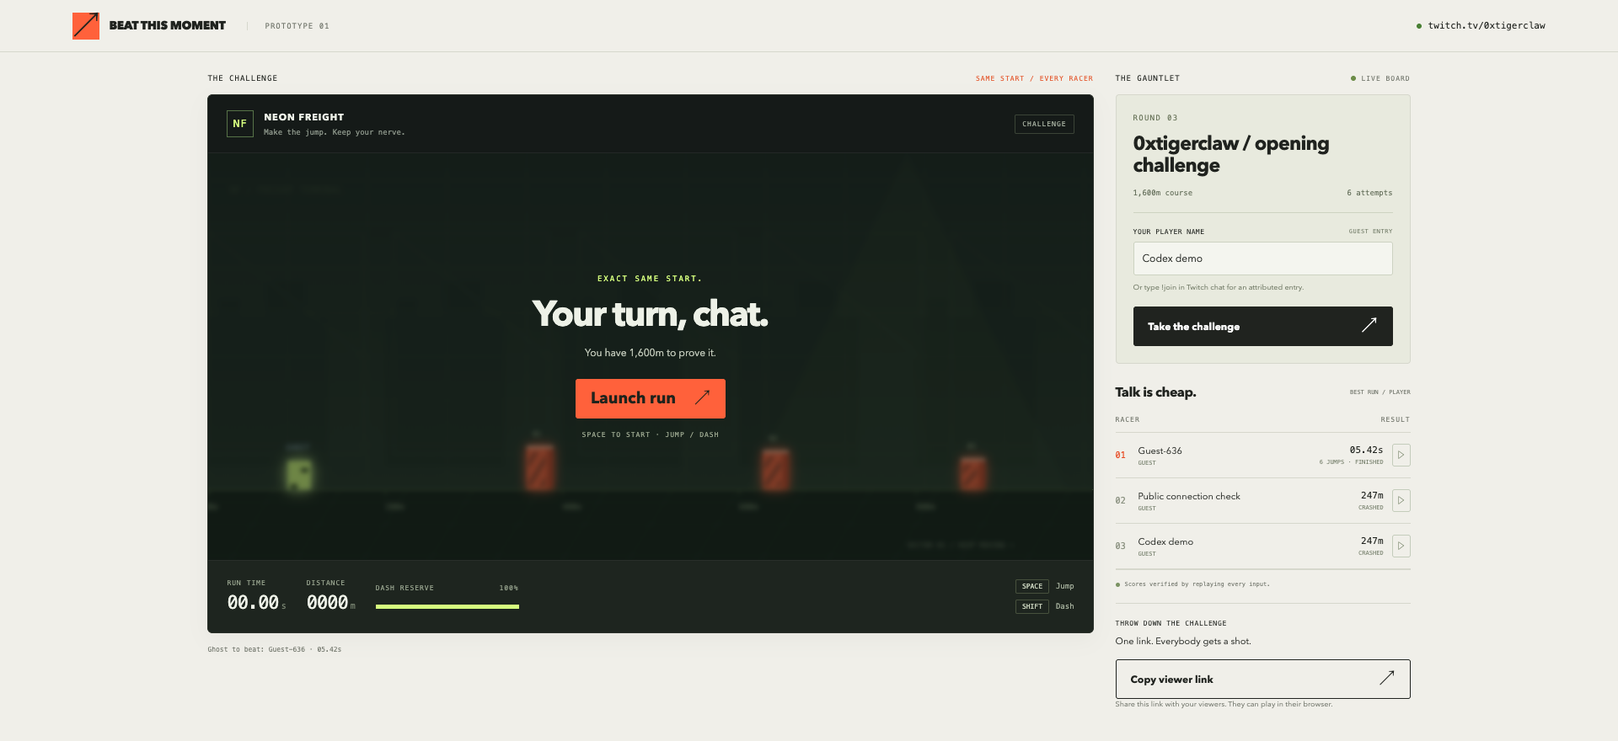
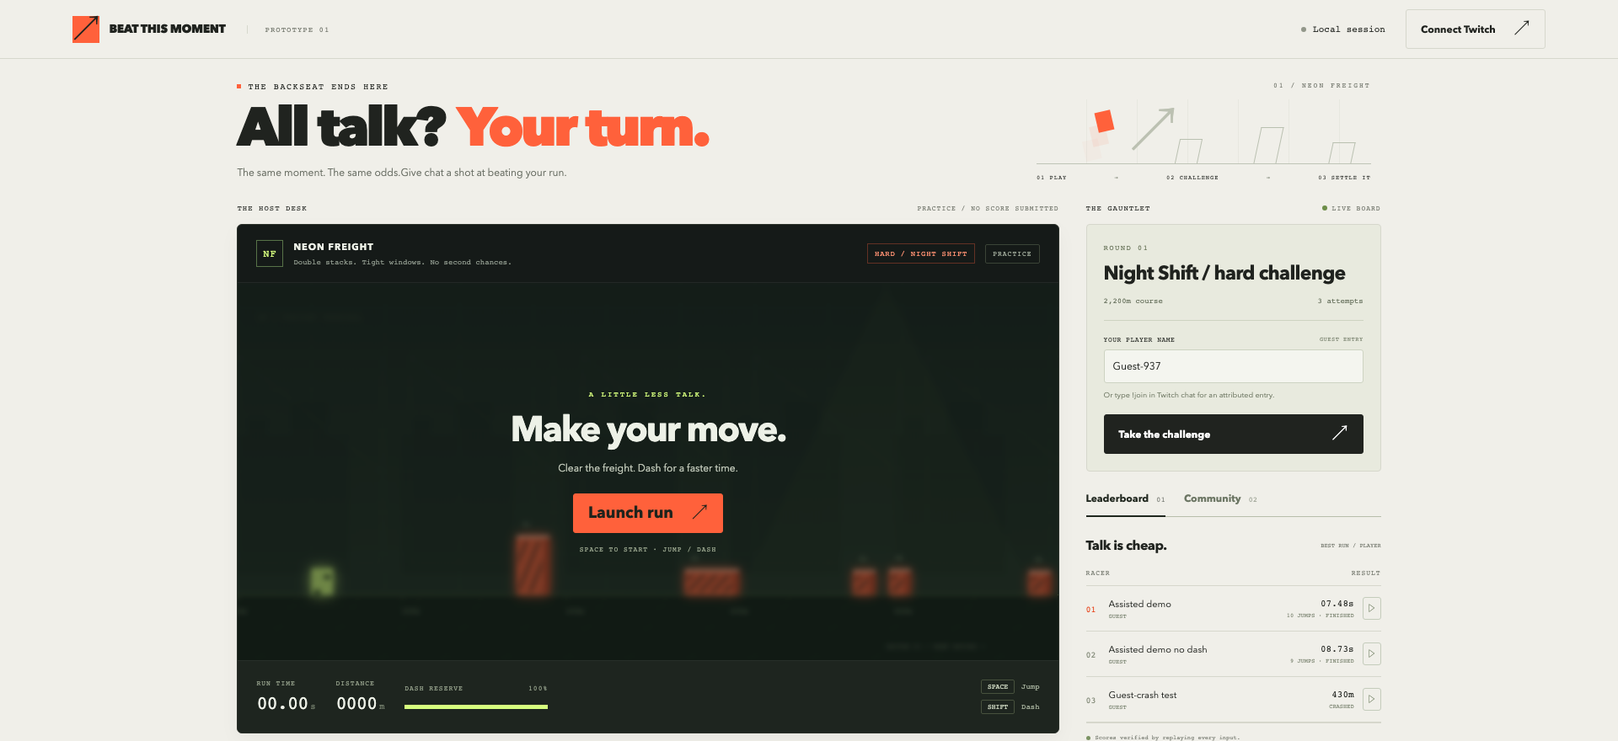
Add harder Night Shift course, Community example tags, and fresh screenshots
The course generator is versioned: version 2 is a 2,200m round with tall
walls, wide barriers, and double stacks, while version 1 challenges and
their ghost replays keep the original layout. The server starts a hard
round on upgrade without touching stored challenges. The board gains a
Community tab with clearly labeled example creator tags. Screenshots were
recaptured from the running game with a labeled assisted demo run.

diff --git a/public/style.css b/public/style.css
@@ -1,3 +1,5 @@
 :root{--bg:#f0efe9;--ink:#20231f;--muted:#777b71;--line:#d6d7cc;--orange:#ff613b;--dark:#151a18;--lime:#d6ff7e;--mono:'SFMono-Regular',Consolas,'Liberation Mono',monospace;--sans:'Avenir Next',Avenir,'Trebuchet MS',sans-serif}*{box-sizing:border-box}body{margin:0;background:var(--bg);color:var(--ink);font:14px var(--sans)}button,input,a{-webkit-tap-highlight-color:transparent}button,a,input{touch-action:manipulation}button{font:inherit;cursor:pointer}button:disabled{opacity:.4;cursor:not-allowed}a{color:inherit}button:focus-visible,a:focus-visible,input:focus-visible,canvas:focus-visible{outline:3px solid #de4f2c;outline-offset:4px}button:active:not(:disabled){transform:translateY(1px)}.topbar{height:82px;padding:0 4.5%;border-bottom:1px solid var(--line);display:flex;align-items:center;justify-content:space-between;gap:20px}.brand{text-decoration:none;font-size:14px;font-weight:800;letter-spacing:-.4px;display:flex;align-items:center;gap:11px}.brand-mark{width:32px;height:32px;display:grid;place-items:center;background:var(--orange);font-size:32px;font-weight:500;color:var(--ink);line-height:1}.beta{margin-left:15px;font:9px var(--mono);letter-spacing:1px;color:var(--muted);border-left:1px solid var(--line);padding-left:20px}.topbar nav{display:flex;align-items:center;gap:24px}.connection{font:11px var(--mono);display:flex;gap:8px;align-items:center}.connection i,.live-label i{width:6px;height:6px;border-radius:50%;background:#92978a}.connection.connected i{background:#498034}.button{display:inline-flex;align-items:center;justify-content:space-between;gap:22px;border:1px solid var(--ink);background:var(--ink);color:#fff;padding:13px 17px;font-size:12px;font-weight:700;min-height:44px;border-radius:3px;transition:background .15s,transform .15s}.button span{font-size:19px;line-height:1}.button:hover:not(:disabled){background:#3e453c}.button.primary{background:var(--orange);border-color:var(--orange);color:#1f231c}.button.primary:hover:not(:disabled){background:#ff805f;border-color:#ff805f}.button.subtle{background:transparent;color:var(--ink);border-color:var(--line)}.button.subtle:hover{background:#e7e7df}.button.wide{width:100%}.button.outline{background:transparent;color:var(--ink)}.button.outline:hover{background:#e2e4d9}main{max-width:1530px;margin:auto;padding:0 4.5%}.intro{display:flex;justify-content:space-between;align-items:center;padding:48px 0 43px}.eyebrow{font:10px var(--mono);letter-spacing:1.6px;display:flex;align-items:center;gap:8px}.tiny-square{width:5px;height:5px;background:var(--orange)}h1{font-size:clamp(52px,5.5vw,82px);line-height:.97;letter-spacing:-5px;margin:20px 0 20px;font-weight:800}h1>span{color:var(--orange)}.intro p{font-size:15px;line-height:1.6;color:#6c7167;margin:0}.intro-right{width:43%;padding:0 25px}.edition{font:10px var(--mono);letter-spacing:2px;color:var(--muted);text-align:right}.sketch-track{height:135px;position:relative;border-bottom:1px solid #bfc4b7;margin:20px 0 20px;background:repeating-linear-gradient(90deg,transparent 0,transparent 59px,#dee0d6 60px)}.sketch-track>span:not(.sketch-player){position:absolute;bottom:0;border:1px solid #b9c0b0;border-bottom:0;width:35px;height:44px;left:42%;transform:skew(-12deg)}.sketch-track>span:nth-child(3){left:66%;height:62px}.sketch-track>span:nth-child(4){left:88%;height:36px}.sketch-player{position:absolute;width:25px;height:30px;background:var(--orange);bottom:64px;left:18%;transform:rotate(-13deg);box-shadow:-10px 15px 0 #ff613b15,-22px 30px 0 #ff613b08}.sketch-track>b{position:absolute;font:80px var(--sans);color:#bcc1b2;top:-1px;left:28%;font-weight:300}.flow{display:flex;justify-content:space-between;font:9px var(--mono);letter-spacing:1px}.flow i{font-style:normal;color:#92998b}.workspace{display:grid;grid-template-columns:minmax(0,1fr) 322px;gap:26px}.section-label{display:flex;justify-content:space-between;align-items:center;margin-bottom:12px;font:9px var(--mono);letter-spacing:1px;min-height:14px}.section-label>span:last-child{color:var(--muted);font-size:8px}.live-label{display:flex;gap:6px;align-items:center}.live-label i{background:#6d8d49}.arena{background:var(--dark);color:#edf1e7;border-radius:6px;overflow:hidden;border:1px solid #2b312a;box-shadow:0 8px 25px #1620160a}.arena-top{display:flex;justify-content:space-between;align-items:center;padding:18px 22px;border-bottom:1px solid #ffffff10}.arena-top>div{display:flex;align-items:center;gap:12px;font-size:11px;font-weight:700;letter-spacing:1px}.arena-badge{font:12px var(--mono);color:var(--lime);border:1px solid #577348;width:32px;height:32px;display:grid;place-items:center}.arena-subtitle{display:block;font:9px var(--mono);color:#8b9589;margin-top:5px;letter-spacing:0}.mode-chip{font:8px var(--mono);letter-spacing:1px;color:#a3ad9d;border:1px solid #3b4437;padding:6px 8px;border-radius:2px}.canvas-wrap{position:relative;overflow:hidden}canvas{display:block;width:100%;aspect-ratio:1000/460;outline-offset:-4px!important}.game-screen{position:absolute;inset:0;display:flex;flex-direction:column;align-items:center;justify-content:center;background:#11181387;backdrop-filter:blur(3px);text-align:center}.game-screen>span:first-child{font:9px var(--mono);letter-spacing:2px;color:var(--lime)}.game-screen h2{font-size:clamp(23px,3.1vw,42px);letter-spacing:-1.8px;margin:14px 0 6px;line-height:1.15}.game-screen p{font-size:12px;line-height:1.6;color:#bdc5b6;margin:6px 0 20px}.game-screen .button{min-width:175px;justify-content:space-between}.screen-hint{font:8px var(--mono);letter-spacing:1px;color:#9aa68e;margin-top:15px}.game-screen[hidden],.countdown[hidden]{display:none}.countdown{position:absolute;inset:0;display:grid;place-items:center;font:800 96px var(--sans);color:var(--lime);text-shadow:0 0 60px #d6ff7e70;pointer-events:none}.game-hud{min-height:86px;display:flex;align-items:center;gap:25px;padding:16px 22px;background:#1e251f;border-top:1px solid #ffffff0c}.stat-label{display:block;font:8px var(--mono);letter-spacing:1px;color:#929e89}.game-hud strong{font:22px var(--mono);display:block;letter-spacing:-1px;margin-top:6px}.game-hud strong>span{font-size:10px;color:#7b8773;margin-left:3px}.energy-stat{flex:1;max-width:170px}.energy-stat .stat-label{display:flex;justify-content:space-between;gap:12px}.energy-track{height:5px;background:#35402e;margin-top:15px}.energy-track>div{height:100%;width:100%;background:var(--lime)}.controls{display:flex;flex-direction:column;gap:7px;margin-left:auto;font:9px var(--mono);color:#a4af9b}.controls>span{display:flex;align-items:center;gap:8px}kbd{font:8px var(--mono);border:1px solid #47513d;padding:3px 6px;min-width:40px;text-align:center;color:#cbd5bf;border-radius:2px}.host-tools{display:flex;justify-content:space-between;align-items:center;gap:16px;border:1px solid var(--line);border-radius:4px;margin-top:15px;padding:18px 16px}.moment-copy{display:flex;align-items:center;gap:13px}.moment-icon{font-size:27px;color:var(--orange)}.moment-copy strong{font-size:12px}.moment-copy p{font-size:10px;line-height:1.5;color:var(--muted);margin:5px 0 0}.host-tools .button{white-space:nowrap}.under-game{display:flex;justify-content:space-between;align-items:center;gap:15px;margin-top:15px}.text-button{background:transparent;border:0;color:inherit;padding:5px 0;font-size:10px;font-weight:700;text-align:left;text-decoration:underline;text-underline-offset:4px}.text-button:hover{color:#d64725}#ghost-label{font:8px var(--mono);color:var(--muted);text-align:right}.how-it-works{display:grid;grid-template-columns:repeat(3,1fr);margin-top:32px;border-top:1px solid var(--line);padding-top:20px;gap:15px}.how-it-works>div>span{font:10px var(--mono);color:var(--orange);display:block;margin-bottom:10px}.how-it-works strong{font-size:11px}.how-it-works p{font-size:10px;color:var(--muted);line-height:1.5}.challenge-card{border:1px solid var(--line);padding:22px 20px 20px;border-radius:4px;background:#e8eade}.challenge-number{font:9px var(--mono);letter-spacing:1.3px;color:#6d785e}.challenge-card h2{font-size:23px;line-height:1.15;letter-spacing:-.7px;margin:13px 0 13px}.challenge-meta{display:flex;justify-content:space-between;font:9px var(--mono);color:#69735f;padding-bottom:18px;border-bottom:1px solid #cdd3c1}.player-entry{margin-top:18px}.player-entry label{font:8px var(--mono);letter-spacing:.5px;display:flex;justify-content:space-between}.player-entry label>span{color:#7c8572;font-size:7px}input{font:12px var(--sans);width:100%;padding:11px 10px;background:#f4f5ef;border:1px solid #cdd3c2;border-radius:3px;margin-top:7px;color:var(--ink)}input::placeholder{color:#92988a}.player-entry small{display:block;font-size:9px;color:#737c68;line-height:1.5;margin:8px 0 16px}.leaderboard{margin-top:23px}.leaderboard-head{display:flex;align-items:center;justify-content:space-between;gap:10px}.leaderboard h3{font-size:16px;letter-spacing:-.5px;margin:0}.leaderboard-head>span{font:7px var(--mono);color:var(--muted)}.table-head{display:flex;justify-content:space-between;font:8px var(--mono);color:var(--muted);letter-spacing:1px;border-bottom:1px solid var(--line);padding:17px 0 10px}#scores,#overlay-scores{list-style:none;padding:0;margin:0}#scores li{display:flex;align-items:center;gap:10px;padding:13px 0;border-bottom:1px solid var(--line);font-size:11px}.rank{font:10px var(--mono);color:#8c9382;min-width:17px}.rank.first{color:#e84c25}.racer{flex:1;overflow:hidden;text-overflow:ellipsis;white-space:nowrap}.racer small{display:block;font:7px var(--mono);color:#7a8471;margin-top:3px}.result{text-align:right;font:11px var(--mono)}.result small{display:block;font:7px var(--mono);margin-top:4px;color:#7c8572}.replay-button{background:none;border:1px solid #c4ccbb;border-radius:3px;padding:5px;color:#667657;font-size:10px}.empty-board{min-height:178px;display:flex;flex-direction:column;align-items:center;justify-content:center;text-align:center}.empty-board[hidden]{display:none}.empty-track{font-size:32px;color:#b7bdad;margin-bottom:8px}.empty-board strong{font-size:11px}.empty-board p{font-size:10px;line-height:1.6;color:var(--muted);margin:7px 0}.board-foot{border-top:1px solid var(--line);padding-top:13px;font:7px var(--mono);color:var(--muted);display:flex;align-items:center;gap:6px}.verified-dot{width:5px;height:5px;border-radius:50%;background:#7b9363}.share-card{border-top:1px solid var(--line);margin-top:24px;padding-top:19px}.share-card .eyebrow{font-size:8px;letter-spacing:.7px}.share-card p{font-size:11px;margin:9px 0 14px}.share-card>.text-button{display:block;margin:10px 0 9px}.share-card small{font-size:9px;color:var(--muted);line-height:1.5;display:block}footer{display:flex;justify-content:space-between;gap:20px;border-top:1px solid var(--line);padding:25px 0;margin-top:40px;font:8px var(--mono);letter-spacing:.7px;color:var(--muted)}.touch-controls{display:none;gap:10px;margin-top:10px}.touch-controls .button{width:50%;justify-content:center;user-select:none;touch-action:none}.toast{position:fixed;bottom:25px;left:50%;transform:translateX(-50%);background:var(--ink);color:white;border:1px solid #657058;box-shadow:0 4px 20px #0003;padding:15px 22px;border-radius:5px;font-size:12px;max-width:min(90vw,600px);z-index:20}.toast[hidden]{display:none}dialog{border:1px solid #cbd0be;border-radius:8px;padding:28px;max-width:520px;width:calc(100% - 32px);background:var(--bg);color:var(--ink);box-shadow:0 30px 100px #0004}dialog::backdrop{background:#111a17b3;backdrop-filter:blur(5px)}.dialog-header{display:flex;justify-content:space-between;align-items:center}.icon-button{border:0;background:transparent;font-size:26px;padding:0 4px}.dialog-header .eyebrow{font-size:9px;color:#67705f}dialog h2{font-size:34px;letter-spacing:-1.5px;margin:20px 0 10px}dialog>p{font-size:12px;color:#747d6a;line-height:1.7}code{font:10px var(--mono);background:#e3e6da;padding:3px 5px;overflow-wrap:anywhere}.setup-status{padding:12px;background:#e4e8d9;margin:17px 0;font-size:11px;line-height:1.6}.setup-steps{padding-left:20px;margin:24px 0}.setup-steps li{padding-left:5px;margin:0 0 20px;font-size:12px}.setup-steps li>span{display:block;font-size:11px;line-height:1.7;color:#747d6a;margin-top:6px}.setup-steps li>code{display:block;margin-top:8px}#host-unlock label{font:9px var(--mono)}#host-unlock .button{margin-top:8px}.setup-footnote{font-size:10px!important;margin-bottom:0}body.viewer .intro{padding:35px 0}.viewer .intro h1{font-size:62px}.viewer .intro-right{display:none}.viewer #host-tools,.viewer #switch-mode,.viewer #setup-open,.viewer #copy-overlay{display:none}.viewer .intro p br{display:none}.viewer .intro p{max-width:500px}.viewer #round-label{color:#e45c33}.viewer .workspace{margin-top:0}body.overlay-mode{background:transparent}body.overlay-mode #app{display:none}.broadcast-overlay{width:420px;background:#182019f2;border:1px solid #526146;border-top:3px solid var(--orange);color:#eef5e4;font-family:var(--sans);border-radius:5px;overflow:hidden}.broadcast-overlay[hidden]{display:none}.overlay-top{display:flex;align-items:center;gap:12px;padding:16px}.overlay-top>div{flex:1}.overlay-top>div>span{display:block;font:8px var(--mono);letter-spacing:1px;color:#afbb9e}.overlay-top strong{display:block;font-size:17px;margin-top:4px}.overlay-top>span:last-child{font:9px var(--mono);color:var(--lime)}#overlay-scores li{display:flex;justify-content:space-between;border-top:1px solid #ffffff14;padding:12px 18px;font:13px var(--mono)}#overlay-scores .rank{margin-right:10px}.overlay-bottom{font:9px var(--mono);letter-spacing:1px;color:#b6c5a3;background:#263223;padding:12px 18px;text-align:center}#host-unlock[hidden]{display:none}@media(min-width:1500px){.workspace{grid-template-columns:minmax(0,1fr) 350px;gap:32px}}@media(max-width:1050px){.workspace{grid-template-columns:minmax(0,1fr) 285px;gap:18px}main{padding:0 3%}.topbar{padding:0 3%}.game-hud{gap:15px;padding:14px}.controls{display:none}.intro-right{width:45%;padding:0}.flow{font-size:8px}.host-tools{align-items:stretch;flex-direction:column}.host-tools .button{justify-content:center}.beta{display:none}.section-label{font-size:8px}.section-label>span:last-child{font-size:7px}}@media(max-width:760px){.topbar{height:68px}.brand{font-size:11px}.brand-mark{width:27px;height:27px;font-size:27px}.topbar nav{gap:12px}.connection{font-size:9px}.topbar .subtle{padding:9px;min-height:36px;font-size:10px}.topbar .subtle span{display:none}main{padding:0 5%}.intro{padding:32px 0}.intro-right{display:none}h1{font-size:65px;letter-spacing:-4px}.intro p{font-size:13px}.workspace{grid-template-columns:1fr;gap:27px}.game-hud{gap:25px}.energy-stat{margin-left:auto;max-width:140px}.arena-top{padding:14px}.canvas-wrap canvas{aspect-ratio:1000/570}.game-screen h2{font-size:30px}.game-screen p{font-size:11px;margin-bottom:14px}.game-screen .screen-hint{display:none}.game-screen .button{padding:10px;min-height:38px}.touch-controls{display:flex}.host-tools{flex-direction:row;align-items:center}.host-tools .button{font-size:10px;padding:11px;gap:8px}.moment-copy strong{font-size:10px}.moment-copy p{font-size:9px}.moment-icon{display:none}.under-game{align-items:start}#ghost-label{font-size:7px;max-width:150px}.how-it-works{margin-top:22px}.how-it-works strong{font-size:10px}.how-it-works p{font-size:9px}.board-column{display:grid;grid-template-columns:1fr 1fr;gap:18px}.board-column>.section-label{grid-column:1/-1;margin-bottom:0}.leaderboard{margin-top:0}.share-card{grid-column:1/-1;margin-top:0}.challenge-card{padding:17px}.challenge-card h2{font-size:21px}.challenge-meta{font-size:8px}.player-entry label{font-size:7px}.player-entry label>span{display:none}.button{font-size:11px}.share-card .button{max-width:320px}footer{font-size:6px;line-height:1.6;margin-top:28px}.viewer .intro h1{font-size:54px}.broadcast-overlay{max-width:100vw}}@media(max-width:420px){.connection{display:none}.board-column{grid-template-columns:1fr}.share-card,.board-column>.section-label{grid-column:1}.game-hud{gap:18px}.game-hud strong{font-size:19px}.energy-stat{max-width:110px}.game-screen h2{font-size:26px}.arena-top{padding:10px}.arena-subtitle{font-size:8px}.host-tools{flex-direction:column;align-items:stretch}.host-tools .button{justify-content:space-between}.moment-copy strong{font-size:12px}.moment-copy p{font-size:10px}}@media(prefers-reduced-motion:reduce){*{transition:none!important;animation:none!important}}
 @media(min-width:761px){.topbar{height:70px}.intro{padding:26px 0 25px;gap:24px}.intro h1{display:flex;align-items:baseline;gap:16px;font-size:clamp(42px,4.5vw,64px);letter-spacing:-3.5px;margin:14px 0 12px}.intro h1 br{display:none}.intro p{font-size:12px}.intro p br{display:none}.intro-right{width:31%;padding:0 12px}.sketch-track{height:77px;margin:12px 0 12px}.sketch-track>b{font-size:56px;top:-7px;left:28%}.sketch-player{bottom:38px;width:19px;height:24px}.sketch-track>span:not(.sketch-player){height:29px;width:27px}.sketch-track>span:nth-child(3){height:43px}.sketch-track>span:nth-child(4){height:25px}.flow{font-size:7px}.edition{font-size:8px}.viewer .intro{padding:26px 0}.viewer .intro h1{font-size:54px}}
 body.broadcast-mode .intro,body.broadcast-mode .how-it-works,body.broadcast-mode footer{display:none}body.broadcast-mode main{padding-top:24px;max-width:1600px}body.broadcast-mode .topbar{height:62px}body.broadcast-mode .workspace{gap:26px}body.broadcast-mode .share-card{margin-top:18px}body.broadcast-mode .host-tools{margin-top:12px}
+
+.arena-levels{display:flex;align-items:center;gap:10px}.difficulty-chip{font:9px var(--mono,monospace);letter-spacing:.08em;color:#ff9273;border:1px solid #ff613b55;padding:6px 8px;white-space:nowrap}.board-tabs{display:flex;border-bottom:1px solid #b7beab;margin-top:24px;gap:22px}.board-tabs button{appearance:none;border:0;border-bottom:2px solid transparent;margin-bottom:-1px;padding:0 0 12px;background:none;cursor:pointer;font:700 12px var(--sans,sans-serif);color:#6d7765}.board-tabs button[aria-selected=true]{border-bottom-color:#20271f;color:#20271f}.board-tabs button span{font:9px var(--mono,monospace);margin-left:6px;font-weight:400;opacity:.6}.board-tabs button:focus-visible{outline:2px solid #ff613b;outline-offset:4px}.community-panel{padding-top:22px}.community-panel h3{font-size:27px;line-height:1.05;letter-spacing:-.055em;margin:14px 0}.community-panel>p{font-size:12px;line-height:1.65;color:#737d6a;margin:0 0 20px}.community-tags{display:grid;gap:9px}.community-tags a{display:flex;align-items:center;gap:12px;border:1px solid #ccd0c0;padding:13px 12px;color:#20271f;text-decoration:none;background:#e9ecdf}.community-tags a:hover{border-color:#ff613b;background:#f1f3e9}.tag-avatar{display:grid;place-items:center;width:35px;height:35px;background:#25342a;color:#d6ff7e;font:11px var(--mono,monospace)}.community-tags strong{display:block;font-size:14px;letter-spacing:-.025em}.community-tags small{display:block;font:8px var(--mono,monospace);letter-spacing:.1em;color:#78836b;margin-top:5px}.community-tags a>span:last-child{margin-left:auto}.community-note{display:block;margin:13px 0 0;font-size:10px;line-height:1.6;color:#737d6a}.community-invite{border-top:1px solid #ccd0c0;margin-top:22px;padding-top:18px}.community-invite strong{font-size:12px}.community-invite p{font-size:11px;line-height:1.65;color:#737d6a}.community-invite code{color:#263b26}[role=tabpanel][hidden]{display:none}@media(max-width:600px){.difficulty-chip{font-size:7px;padding:5px}.arena-levels{gap:5px}.community-panel h3{font-size:28px}}

diff --git a/public/app.js b/public/app.js
@@ -9,7 +9,7 @@ document.body.classList.toggle('overlay-mode', overlayMode);
 document.body.classList.toggle('broadcast-mode', broadcastMode);
 if (overlayMode) $('overlay').hidden = false;
 let info, challenge, isHost = false, mode = viewerId ? 'challenge' : 'practice';
-let sim = initial(), map = world(sim.seed), finish = map.finish, startState = { ...sim };
+let sim = initial(), map = world(sim.seed, sim.version), finish = map.finish, startState = { ...sim };
 let running = false, starting = false, raceTicket, inputs = [], history = [], savedMoment = null;
 let keys = { jump: false, dash: false }, ghost = null, ghostName = '', replayOnly = false, replayFrame = 0;
 let attempts = 0, toastTimer, connectionLost = false, refreshSequence = 0, playerSession;
@@ -36,10 +36,13 @@ function setMode(next) {
   if (running || starting) return toast('Finish this run before switching.');
   mode = next; replayOnly = false;
   $('game-mode').textContent = mode === 'practice' ? 'PRACTICE' : 'CHALLENGE';
+  const hard = mode === 'practice' || challenge.snapshot.version >= 2;
+  $('difficulty').textContent = hard ? 'HARD / NIGHT SHIFT' : 'CLASSIC / V1';
+  $('course-subtitle').textContent = hard ? 'Double stacks. Tight windows. No second chances.' : 'The original course. Make the jump.';
   $('round-label').textContent = mode === 'practice' ? 'PRACTICE / NO SCORE SUBMITTED' : 'SAME START / EVERY RACER';
   $('switch-mode').textContent = mode === 'practice' ? 'Race the active challenge ↗' : 'Back to practice ↗';
   sim = mode === 'practice' ? initial() : { ...challenge.snapshot };
-  startState = { ...sim }; map = world(sim.seed); finish = mode === 'practice' ? map.finish : challenge.finish;
+  startState = { ...sim }; map = world(sim.seed, sim.version); finish = mode === 'practice' ? map.finish : challenge.finish;
   screen(mode === 'practice' ? 'A LITTLE LESS TALK.' : 'EXACT SAME START.', mode === 'practice' ? 'Make your move.' : 'Your turn, chat.', mode === 'practice' ? 'Clear the freight. Dash for a faster time.' : `You have ${Math.round(finish - sim.x).toLocaleString()}m to prove it.`, 'Launch run', 'SPACE TO START · JUMP / DASH');
   updateHud();
 }
@@ -129,9 +132,9 @@ async function startRun() {
       $('player-name').value = data.name;
       $('identity-note').textContent = data.identity === 'twitch' ? `Playing as ${data.name} · Twitch chat entry` : 'Guest entry. Your name is not a verified Twitch identity.';
       challenge = data.challenge; sim = { ...challenge.snapshot }; finish = challenge.finish;
-    } else { sim = initial(); finish = world(sim.seed).finish; raceTicket = null; }
+    } else { sim = initial(); finish = world(sim.seed, sim.version).finish; raceTicket = null; }
     try { localStorage.setItem('btm-name', $('player-name').value); } catch {}
-    map = world(sim.seed); startState = { ...sim }; inputs = []; history = [{ ...sim }];
+    map = world(sim.seed, sim.version); startState = { ...sim }; inputs = []; history = [{ ...sim }];
     keys = { jump: false, dash: false }; savedMoment = null; $('publish').disabled = true;
     $('game-screen').hidden = true; $('countdown').hidden = false;
     for (const value of ['3','2','1']) { $('countdown').textContent = value; await new Promise(resolve => setTimeout(resolve, 450)); }
@@ -144,7 +147,7 @@ async function endRun() {
   running = false; keys = { jump: false, dash: false };
   const target = sim.frame - 100;
   savedMoment = [...history].reverse().find(s => s.frame <= target && s.y === FLOOR - PLAYER.h && s.status === 'running') || history[0];
-  if (world(savedMoment.seed).finish - savedMoment.x < 400) savedMoment = history[0];
+  if (world(savedMoment.seed, savedMoment.version).finish - savedMoment.x < 400) savedMoment = history[0];
   $('publish').disabled = !isHost;
   $('moment-title').textContent = sim.status === 'finished' ? 'A run worth chasing.' : 'Big talk. Small landing.';
   $('moment-description').textContent = `Challenge starts at ${Math.round(savedMoment.x)}m, ${formatTime(Math.max(0, sim.frame - savedMoment.frame) / 60)}s before this moment.`;
@@ -246,6 +249,25 @@ function loop(now) {
   if(running){accumulator+=dt;while(accumulator>=1000/60&&running){const input=(keys.jump?1:0)|(keys.dash?2:0);inputs.push(input);sim=step(sim,input,map,finish);if(sim.status==='running'){history.push({...sim});if(history.length>240)history.shift();}accumulator-=1000/60;if(sim.status!=='running')endRun();else if(inputs.length>=MAX_TICKS){running=false;toast('Run limit reached. Start again.');screen('TIME OUT','Fresh start?','This run exceeded the time limit.');}} updateHud();}
   if(replayOnly){accumulator+=dt;while(accumulator>=1000/60){replayFrame++;accumulator-=1000/60;if(replayFrame>=ghost.length){replayOnly=false;screen('GHOST REPLAY COMPLETE','Your move.',`That was ${ghostName}’s run. Now chase it.`);refresh(info);break;}}}
   if(!overlayMode&&(running||replayOnly||now-lastPaint>100)){draw();lastPaint=now;}requestAnimationFrame(loop);
+}
+
+const boardTabs = [...document.querySelectorAll('[role=tab]')];
+function selectBoardTab(tab) {
+  for (const button of boardTabs) {
+    const selected = button === tab;
+    button.setAttribute('aria-selected', String(selected));
+    button.tabIndex = selected ? 0 : -1;
+    $(button.getAttribute('aria-controls')).hidden = !selected;
+  }
+}
+for (const [index, tab] of boardTabs.entries()) {
+  tab.addEventListener('click', () => selectBoardTab(tab));
+  tab.addEventListener('keydown', event => {
+    if (!['ArrowLeft','ArrowRight','Home','End'].includes(event.key)) return;
+    event.preventDefault();
+    const next = event.key === 'Home' ? 0 : event.key === 'End' ? boardTabs.length - 1 : (index + (event.key === 'ArrowRight' ? 1 : -1) + boardTabs.length) % boardTabs.length;
+    selectBoardTab(boardTabs[next]); boardTabs[next].focus();
+  });
 }
 
 $('start').addEventListener('click',()=>startRun());

diff --git a/public/index.html b/public/index.html
@@ -23,7 +23,7 @@
         <div class="play-column">
           <div class="section-label"><span id="desk-label">THE HOST DESK</span><span id="round-label">PRACTICE / NO SCORE SUBMITTED</span></div>
           <div class="arena">
-            <div class="arena-top"><div><span class="arena-badge">NF</span><span>NEON FREIGHT<span class="arena-subtitle" id="course-subtitle">Make the jump. Keep your nerve.</span></span></div><span id="game-mode" class="mode-chip">PRACTICE</span></div>
+            <div class="arena-top"><div><span class="arena-badge">NF</span><span>NEON FREIGHT<span class="arena-subtitle" id="course-subtitle">Make the jump. Keep your nerve.</span></span></div><div class="arena-levels"><span id="difficulty" class="difficulty-chip">HARD / NIGHT SHIFT</span><span id="game-mode" class="mode-chip">PRACTICE</span></div></div>
             <div class="canvas-wrap"><canvas id="game" width="1000" height="460" tabindex="0" aria-label="Neon Freight obstacle course. Space or up arrow to jump, Shift to dash."></canvas>
               <div id="game-screen" class="game-screen"><span id="screen-kicker">A LITTLE LESS TALK.</span><h2 id="screen-title">Make your move.</h2><p id="screen-description">Clear the freight. Dash for a faster time.<br>One crash is all it takes.</p><button id="start" class="button primary">Launch run <span>↗</span></button><span class="screen-hint" id="screen-hint">SPACE TO START · NO DOWNLOADS</span></div>
               <div id="countdown" class="countdown" hidden></div>
@@ -42,7 +42,25 @@
         <aside class="board-column">
           <div class="section-label"><span>THE GAUNTLET</span><span class="live-label"><i></i> LIVE BOARD</span></div>
           <div class="challenge-card"><div class="challenge-number" id="challenge-number">ROUND 01</div><h2 id="challenge-title">The opening challenge</h2><div class="challenge-meta"><span id="challenge-distance">1,600m course</span><span id="attempts">0 attempts</span></div><div class="player-entry"><label for="player-name">YOUR PLAYER NAME <span>GUEST ENTRY</span></label><input id="player-name" maxlength="24" autocomplete="nickname" placeholder="Pick your racing name" value="" aria-describedby="identity-note"><small id="identity-note">Or type !join in Twitch chat for an attributed entry.</small></div><button id="join-race" class="button wide">Take the challenge <span>↗</span></button></div>
+          <div class="board-tabs" role="tablist" aria-label="Challenge board">
+            <button id="leaderboard-tab" role="tab" aria-selected="true" aria-controls="leaderboard-panel">Leaderboard <span>01</span></button>
+            <button id="community-tab" role="tab" aria-selected="false" aria-controls="community-panel" tabindex="-1">Community <span>02</span></button>
+          </div>
+          <section id="leaderboard-panel" role="tabpanel" aria-labelledby="leaderboard-tab">
           <div class="leaderboard"><div class="leaderboard-head"><h3>Talk is cheap.</h3><span>BEST RUN / PLAYER</span></div><div class="table-head"><span>RACER</span><span>RESULT</span></div><ol id="scores"></ol><div id="empty-board" class="empty-board"><span class="empty-track" aria-hidden="true">↗</span><strong>The board is yours to take.</strong><p>Finish the course to set the pace.<br>Crashes rank by distance reached.</p></div><div class="board-foot"><span class="verified-dot"></span> Scores verified by replaying every input.</div></div>
+          </section>
+          <section id="community-panel" class="community-panel" role="tabpanel" aria-labelledby="community-tab" hidden>
+            <span class="eyebrow">DREAM MATCHUPS / EXAMPLES</span>
+            <h3>Who would you<br>throw this to?</h3>
+            <p>A familiar tag. The same brutal jump. Imagine your favorite community taking a shot.</p>
+            <div class="community-tags">
+              <a href="https://www.twitch.tv/shroud" target="_blank" rel="noopener noreferrer"><span class="tag-avatar" aria-hidden="true">SH</span><span><strong>@shroud</strong><small>EXAMPLE CREATOR</small></span><span aria-hidden="true">↗</span></a>
+              <a href="https://www.twitch.tv/pokimane" target="_blank" rel="noopener noreferrer"><span class="tag-avatar" aria-hidden="true">PO</span><span><strong>@pokimane</strong><small>EXAMPLE CREATOR</small></span><span aria-hidden="true">↗</span></a>
+              <a href="https://www.twitch.tv/tarik" target="_blank" rel="noopener noreferrer"><span class="tag-avatar" aria-hidden="true">TA</span><span><strong>@tarik</strong><small>EXAMPLE CREATOR</small></span><span aria-hidden="true">↗</span></a>
+            </div>
+            <small class="community-note">Illustrative tags only. These creators have not joined or endorsed this challenge.</small>
+            <div class="community-invite"><strong>Your chat gets the real invitation.</strong><p>Copy the challenge link below, or type <code>!challenge</code> in your connected channel.</p></div>
+          </section>
           <div class="share-card"><span class="eyebrow">THROW DOWN THE CHALLENGE</span><p>One link. Everybody gets a shot.</p><button id="copy-link" class="button wide outline">Copy viewer link <span>↗</span></button><button id="copy-overlay" class="text-button">Copy OBS overlay URL ↗</button><small id="share-note">Local links work on this computer. Set a public URL to invite remote viewers.</small></div>
         </aside>
       </section>

diff --git a/public/engine.js b/public/engine.js
@@ -1,26 +1,41 @@
-export const VERSION = 1;
+export const VERSION = 2;
 export const FLOOR = 380;
 export const PLAYER = { w: 26, h: 32 };
 export const MAX_TICKS = 7200;
 
-export function world(seed = 41) {
+export function world(seed = 41, version = VERSION) {
   let s = seed >>> 0;
   const rnd = () => { s = (Math.imul(s, 1664525) + 1013904223) >>> 0; return s / 4294967296; };
   const obstacles = [];
-  let x = 360;
+  let x = version === 1 ? 360 : 340;
   while (x < 3400) {
-    obstacles.push({ x, w: 27 + Math.floor(rnd() * 12), h: 32 + Math.floor(rnd() * 18) });
-    x += 205 + Math.floor(rnd() * 70);
+    if (version === 1) {
+      // Preserve the original layout exactly for saved challenges and replays.
+      obstacles.push({ x, w: 27 + Math.floor(rnd() * 12), h: 32 + Math.floor(rnd() * 18) });
+      x += 205 + Math.floor(rnd() * 70);
+      continue;
+    }
+    const kind = Math.floor(rnd() * 3);
+    if (kind === 0) {
+      obstacles.push({ x, w: 32 + Math.floor(rnd() * 9), h: 62 + Math.floor(rnd() * 12) });
+    } else if (kind === 1) {
+      const width = 23 + Math.floor(rnd() * 5), gap = 15 + Math.floor(rnd() * 7);
+      obstacles.push({ x, w: width, h: 25 + Math.floor(rnd() * 7) });
+      obstacles.push({ x: x + width + gap, w: 23 + Math.floor(rnd() * 5), h: 25 + Math.floor(rnd() * 7) });
+    } else {
+      obstacles.push({ x, w: 64 + Math.floor(rnd() * 10), h: 31 + Math.floor(rnd() * 7) });
+    }
+    x += 196 + Math.floor(rnd() * 49);
   }
   return { seed, obstacles, finish: 3600 };
 }
 
-export function initial(seed = 41) {
-  return { version: VERSION, seed, x: 90, y: FLOOR - PLAYER.h, vy: 0, frame: 0, energy: 100, jumps: 0, jumpHeld: false, status: 'running' };
+export function initial(seed = 41, version = VERSION) {
+  return { version, seed, x: 90, y: FLOOR - PLAYER.h, vy: 0, frame: 0, energy: 100, jumps: 0, jumpHeld: false, status: 'running' };
 }
 
 export function validSnapshot(s) {
-  return s?.version === VERSION && Number.isInteger(s.seed) && s.seed >= 0 && s.seed <= 4294967295
+  return [1, VERSION].includes(s?.version) && Number.isInteger(s.seed) && s.seed >= 0 && s.seed <= 4294967295
     && Number.isInteger(s.frame) && s.frame >= 0 && s.frame <= MAX_TICKS
     && ['x','y','vy','energy','jumps'].every(k => Number.isFinite(s[k]))
     && s.x >= 0 && s.x < 3600 && s.y >= 0 && s.y <= FLOOR - PLAYER.h
@@ -28,7 +43,7 @@ export function validSnapshot(s) {
     && Number.isInteger(s.jumps) && s.jumps >= 0 && typeof s.jumpHeld === 'boolean' && s.status === 'running';
 }
 
-export function step(s, input, map = world(s.seed), finish = map.finish) {
+export function step(s, input, map = world(s.seed, s.version), finish = map.finish) {
   if (s.status !== 'running') return s;
   const jump = !!(input & 1), dash = !!(input & 2);
   const grounded = s.y >= FLOOR - PLAYER.h - 0.01;
@@ -45,10 +60,10 @@ export function step(s, input, map = world(s.seed), finish = map.finish) {
   return { ...s, x, y, vy, energy, frame: s.frame + 1, jumps, jumpHeld: jump, status };
 }
 
-export function replay(snapshot, inputs, finish = world(snapshot.seed).finish) {
+export function replay(snapshot, inputs, finish = world(snapshot.seed, snapshot.version).finish) {
   if (!validSnapshot(snapshot) || !Array.isArray(inputs) || !inputs.length || inputs.length > MAX_TICKS
     || inputs.some(n => !Number.isInteger(n) || n < 0 || n > 3)) throw new Error('Invalid run data.');
-  const map = world(snapshot.seed);
+  const map = world(snapshot.seed, snapshot.version);
   let state = { ...snapshot };
   const trace = [{ x: state.x, y: state.y }];
   for (let i = 0; i < inputs.length; i++) {

diff --git a/README.md b/README.md
@@ -53,17 +53,21 @@ flowchart LR
 
 ## Gameplay gallery
 
-**The course, captured directly from the running game.** This is the start of Guest-636's recorded run.
+**The hard course, captured directly from the running game.** The current round, Night Shift, is a 2,200m course with 13 hazards: tall walls, wide barriers, and double stacks with tight jump windows. The original 1,600m, six-hazard course is kept as course version 1, so earlier challenge links and ghost replays still play exactly as recorded. This is the start of the assisted demo run's ghost replay.
 
-![The Neon Freight course with the leading player ghost](docs/images/gameplay.png)
+![The Neon Freight hard course with the leading ghost](docs/images/gameplay.png)
 
-**A winning run to chase.** The ghost replay follows the recorded inputs through the final obstacles toward the finish.
+**A winning run to chase.** The ghost replay follows the recorded inputs through the final double stack toward the finish. The assisted demo run, an input search over the real simulation and labeled as such on the board, completed the course in 7.48 seconds with ten jumps.
 
 ![The winning ghost approaching the finish line](docs/images/ghost-replay.png)
 
 **The community board.** Completed runs rank above crashes; each entry can be replayed.
 
 ![Challenge entry and server-verified community leaderboard](docs/images/leaderboard.png)
+
+**The Community tab.** Example creator tags show how a challenge could be thrown to a familiar community. The tags are illustrative only; these creators have not joined or endorsed the challenge.
+
+![Community tab with example creator tags](docs/images/community.png)
 
 ## A path to deeper game integration
 
@@ -161,7 +165,7 @@ npm test
 npm run check
 ```
 
-Tests cover deterministic courses, completable jump/dash mechanics, restoration from mid-jump snapshots, replay equivalence, malformed/incomplete run rejection, ranking, host authorization, cross-origin rejection, independent guest entry, duplicate submission prevention and persistence across restarts.
+Tests cover deterministic courses, the harder course version and its upgrade path, completable jump/dash mechanics, restoration from mid-jump snapshots, replay equivalence, malformed/incomplete run rejection, ranking, host authorization, cross-origin rejection, independent guest entry, duplicate submission prevention and persistence across restarts.
 
 Server-side replay prevents fabricated scores but **does not prevent bots, tool-assisted inputs, name impersonation, or determined cheating**. There is no prize/payment system. Twitch OAuth and live chat require your own app credentials and broadcaster authorization, and must be tested with an actual Twitch channel before a hackathon submission.
 
